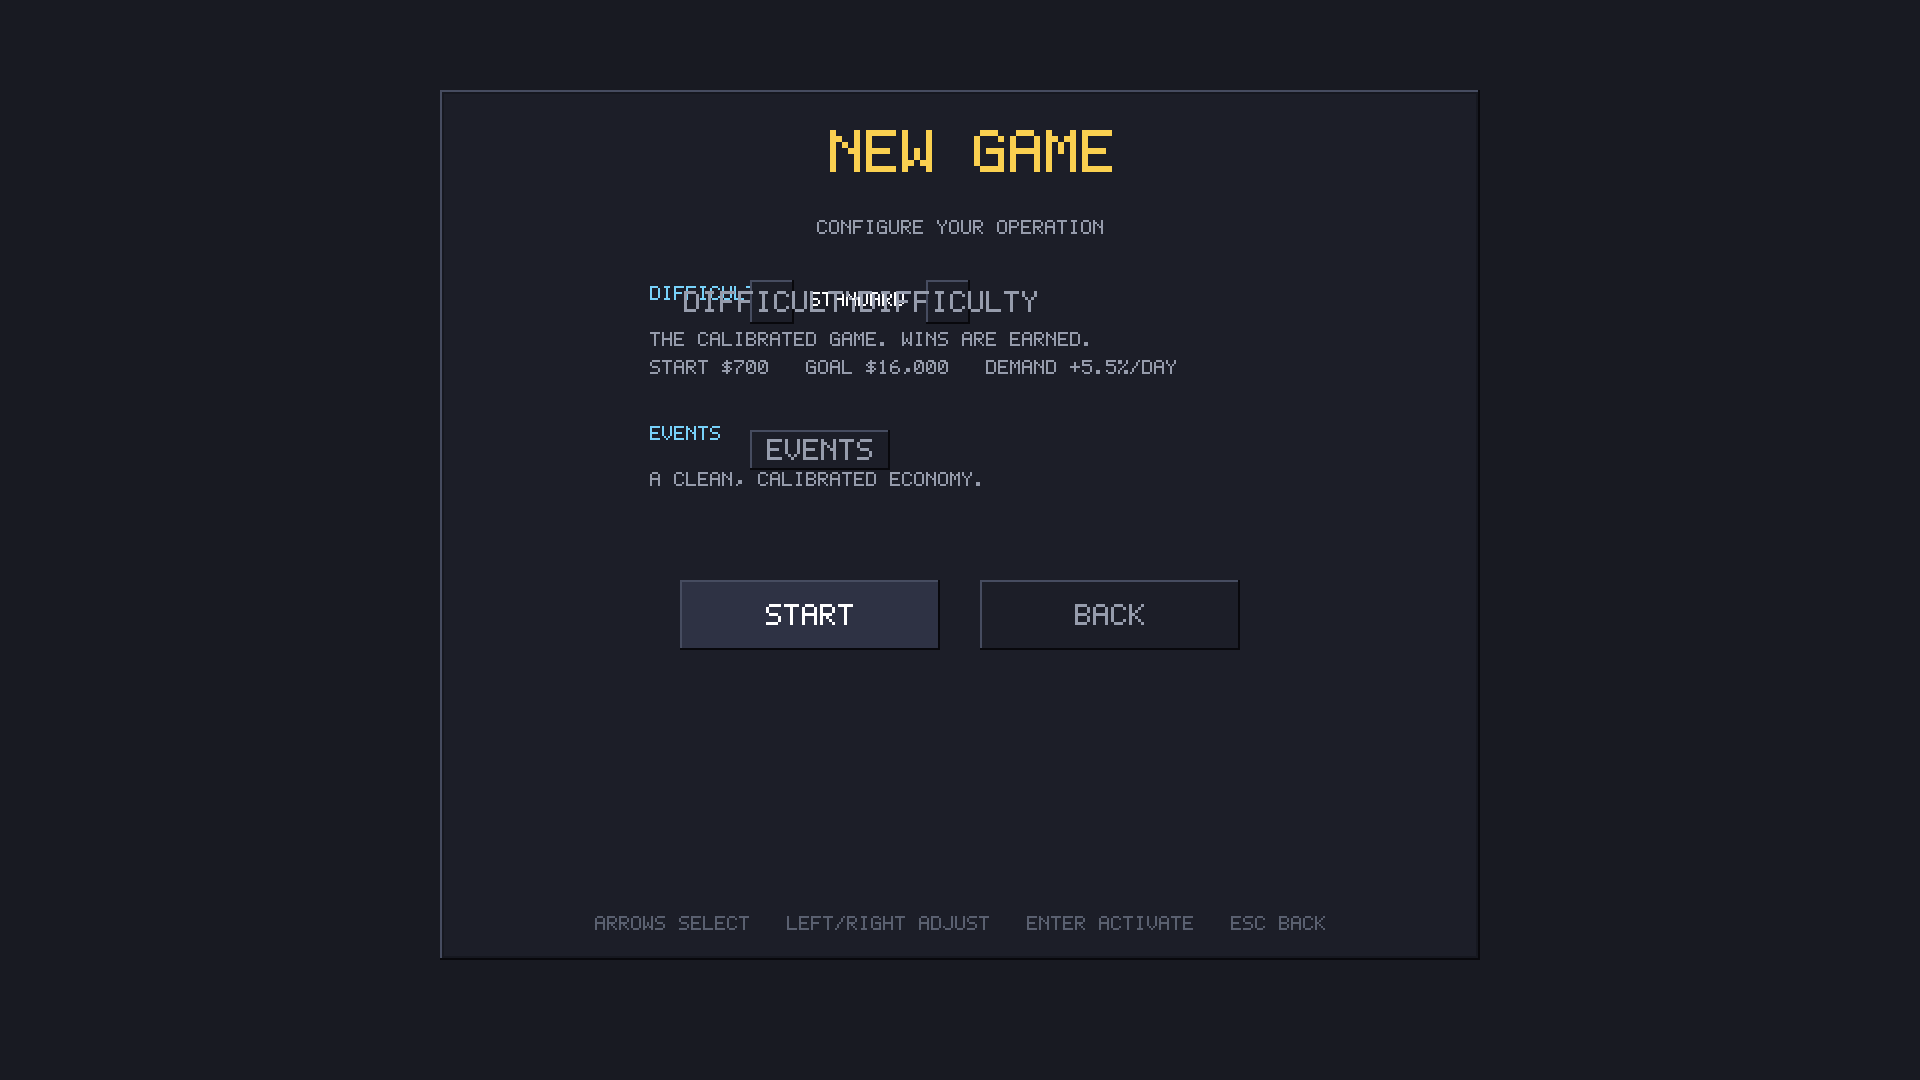
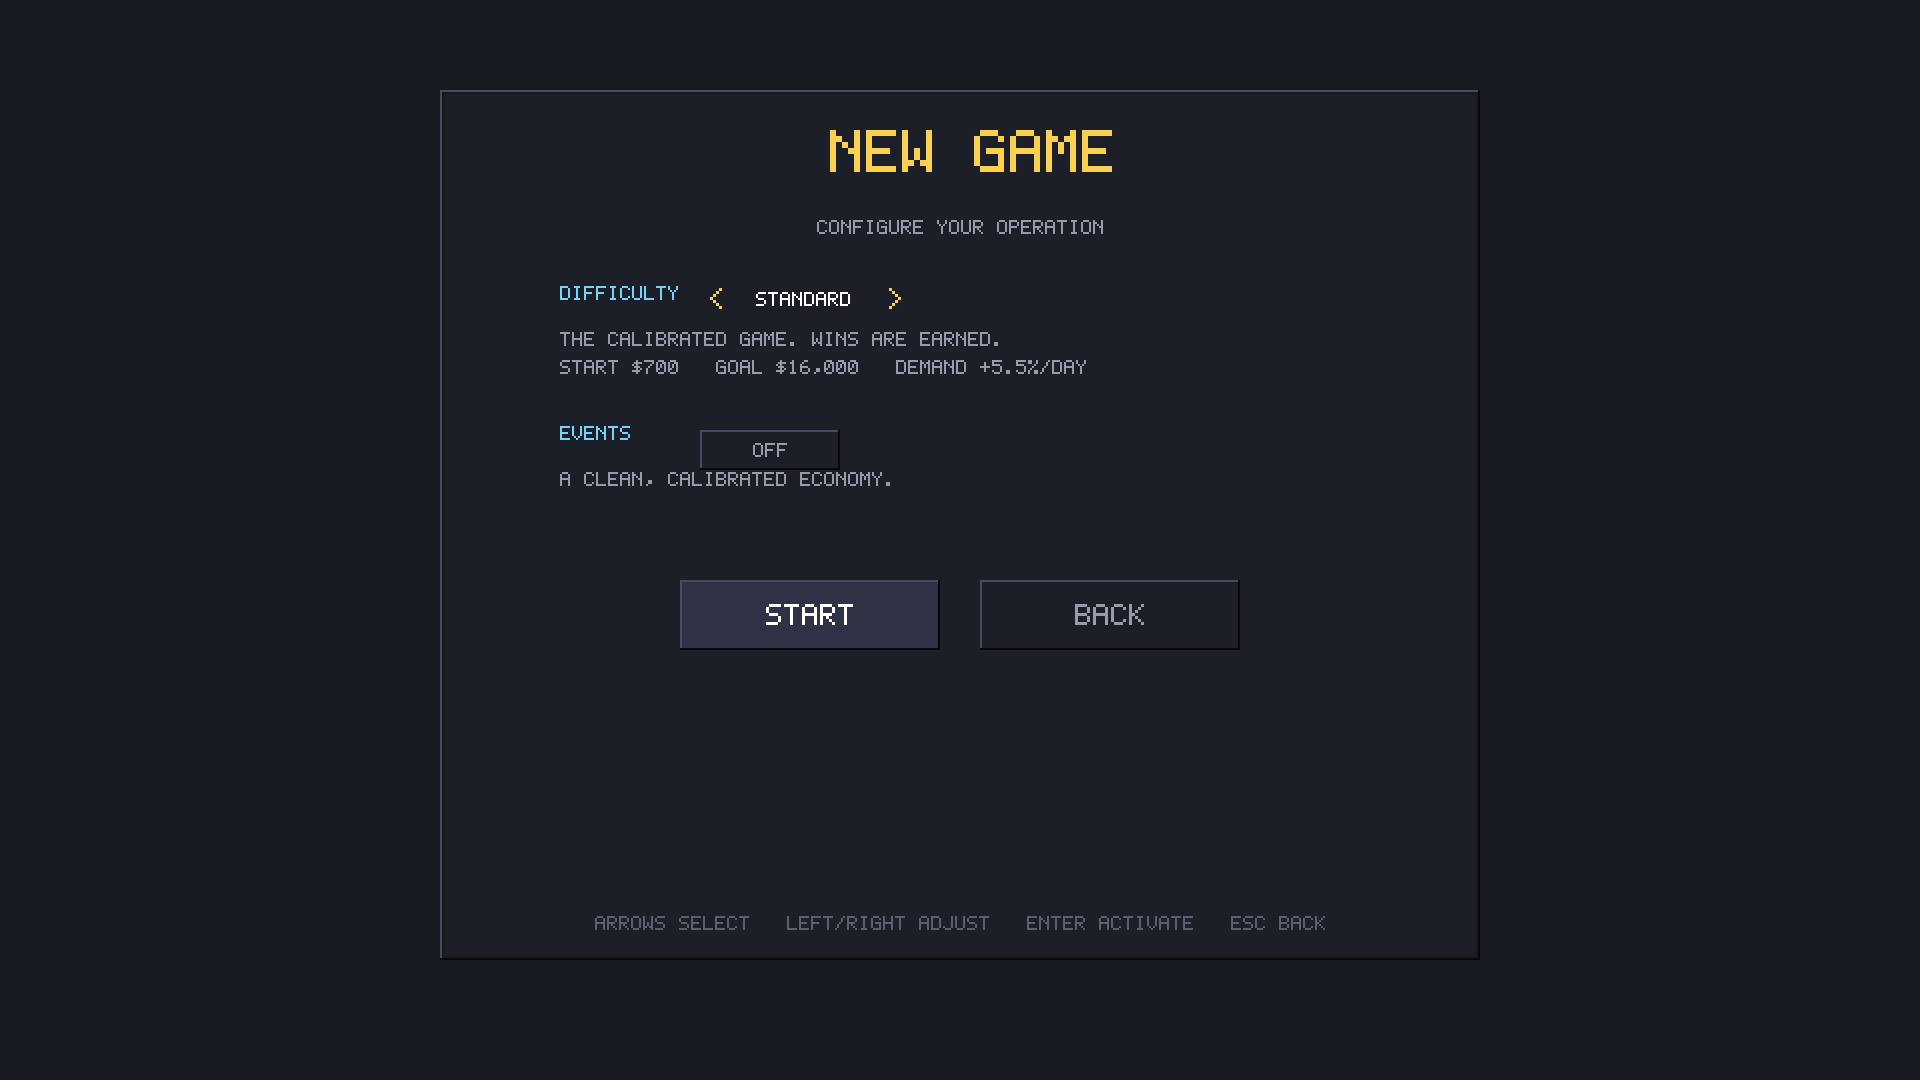
Fix setup screen: duplicate labels, spacing, and control layout
- The _setupRows loop was drawing labels for ALL rows including the
  <, >, and ON/OFF controls — which already had their text drawn above
  the loop. Fixed: only START and BACK (action >= 13) get labels from
  the loop; control buttons are drawn separately.
- Moved difficulty/events controls to x=700 (was 750) so they sit
  closer to their labels at x=560, eliminating the 100px gap.
- All labels now left-aligned at x=560; controls start at x=700.
- Verified via screenshot tool: no duplicate labels, no overlapping text,
  START/BACK centered as a pair.

Validated: 16/16 selftests, 0 warnings.

Changed region(s): [[0.2812, 0.2444, 0.5625, 0.3667], [0.3125, 0.3972, 0.5, 0.4583]]

diff --git a/Game1.cs b/Game1.cs
@@ -19,9 +19,9 @@ public class Game1 : Game
     private const int SideW = TargetWidth - MapW;
 
     private static readonly Rectangle SetupFrame = new(440, 90, 1040, 870);
-    private static readonly Rectangle BtnDiffMinus = new(750, 280, 44, 44);
-    private static readonly Rectangle BtnDiffPlus = new(926, 280, 44, 44);
-    private static readonly Rectangle BtnEvents = new(750, 430, 140, 40);
+    private static readonly Rectangle BtnDiffMinus = new(700, 280, 40, 40);
+    private static readonly Rectangle BtnDiffPlus = new(876, 280, 40, 40);
+    private static readonly Rectangle BtnEvents = new(700, 430, 140, 40);
     private static readonly Rectangle BtnStart = new(680, 580, 260, 70);
     private static readonly Rectangle BtnBack = new(980, 580, 260, 70);
 
@@ -675,34 +675,34 @@ public class Game1 : Game
         SoftTextCentered(c, "CONFIGURE YOUR OPERATION", 220, TextDim, 2);
 
         var t = Sim.DifficultyTuning(_selDifficulty);
-        int cx = TargetWidth / 2;
 
         // Difficulty row
-        SoftText(c, "DIFFICULTY", cx - 310, 286, TextCyan, 2);
-        SoftText(c, "<", BtnDiffMinus.X + 12, BtnDiffMinus.Y + 8, TextGold, 3);
+        SoftText(c, "DIFFICULTY", 560, 286, TextCyan, 2);
+        SoftText(c, "<", BtnDiffMinus.X + 10, BtnDiffMinus.Y + 8, TextGold, 3);
         SoftText(c, DifficultyName(_selDifficulty), BtnDiffMinus.X + BtnDiffMinus.Width + 16, 292, Color.White, 2);
-        SoftText(c, ">", BtnDiffPlus.X + 12, BtnDiffPlus.Y + 8, TextGold, 3);
-        SoftText(c, DifficultyBlurb(_selDifficulty), cx - 310, 332, TextDim, 2);
-        SoftText(c, $"START {t.startMoney:C0}   GOAL {t.winGoal:C0}   DEMAND +{(Sim.DAILY_DEMAND_GROWTH + t.growthDelta) * 100f:F1}%/DAY", cx - 310, 360, TextDim, 2);
+        SoftText(c, ">", BtnDiffPlus.X + 10, BtnDiffPlus.Y + 8, TextGold, 3);
+        SoftText(c, DifficultyBlurb(_selDifficulty), 560, 332, TextDim, 2);
+        SoftText(c, $"START {t.startMoney:C0}   GOAL {t.winGoal:C0}   DEMAND +{(Sim.DAILY_DEMAND_GROWTH + t.growthDelta) * 100f:F1}%/DAY", 560, 360, TextDim, 2);
 
         // Events row
-        SoftText(c, "EVENTS", cx - 310, 426, TextCyan, 2);
+        SoftText(c, "EVENTS", 560, 426, TextCyan, 2);
         var toggleText = _selEvents ? "ON" : "OFF";
         var toggleX = BtnEvents.X + (BtnEvents.Width - _font.Width(toggleText, 2)) / 2;
         var toggleY = BtnEvents.Y + (BtnEvents.Height - _font.Height(2)) / 2;
         SoftBevel(c, BtnEvents, _selEvents ? new Color(40, 60, 44) : ChunkFill);
         SoftText(c, toggleText, toggleX, toggleY, _selEvents ? TextGreen : TextDim, 2);
-        SoftText(c, _selEvents ? "THE NEWS CYCLE WILL SHAPE YOUR RUN." : "A CLEAN, CALIBRATED ECONOMY.", cx - 310, 472, TextDim, 2);
+        SoftText(c, _selEvents ? "THE NEWS CYCLE WILL SHAPE YOUR RUN." : "A CLEAN, CALIBRATED ECONOMY.", 560, 472, TextDim, 2);
 
-        // Rows
+        // Action buttons (only START/BACK get labels; <, >, ON/OFF are drawn above)
         foreach (var s in _setupRows)
         {
+            if (s.action < 13) continue;
             bool sel = _setupSel >= 0 && _setupRows[_setupSel].action == s.action;
             int tw = _font.Width(s.label, 3);
             int tx = s.rect.X + (s.rect.Width - tw) / 2;
             int ty = s.rect.Y + (s.rect.Height - _font.Height(3)) / 2;
             SoftBevel(c, s.rect, sel ? new Color(46, 50, 68) : ChunkFill);
-            SoftText(c, s.label, tx, s.rect.Y + (s.rect.Height - _font.Height(3)) / 2, sel ? Color.White : TextDim, 3);
+            SoftText(c, s.label, tx, ty, sel ? Color.White : TextDim, 3);
         }
 
         SoftTextCentered(c, "ARROWS SELECT   LEFT/RIGHT ADJUST   ENTER ACTIVATE   ESC BACK", frame.Bottom - 44, new Color(90, 96, 112), 2);
@@ -924,34 +924,34 @@ public class Game1 : Game
         DrawCentered("CONFIGURE YOUR OPERATION", 220, TextDim);
 
         var t = Sim.DifficultyTuning(_selDifficulty);
-        int cx = TargetWidth / 2;
 
         // Difficulty row
-        _font.Draw(_spriteBatch, "DIFFICULTY", cx - 310, 286, TextCyan, 2);
-        _font.Draw(_spriteBatch, "<", BtnDiffMinus.X + 12, BtnDiffMinus.Y + 8, TextGold, 3);
+        _font.Draw(_spriteBatch, "DIFFICULTY", 560, 286, TextCyan, 2);
+        _font.Draw(_spriteBatch, "<", BtnDiffMinus.X + 10, BtnDiffMinus.Y + 8, TextGold, 3);
         _font.Draw(_spriteBatch, DifficultyName(_selDifficulty), BtnDiffMinus.X + BtnDiffMinus.Width + 16, 292, Color.White, 2);
-        _font.Draw(_spriteBatch, ">", BtnDiffPlus.X + 12, BtnDiffPlus.Y + 8, TextGold, 3);
-        _font.Draw(_spriteBatch, DifficultyBlurb(_selDifficulty), cx - 310, 332, TextDim, 2);
-        _font.Draw(_spriteBatch, $"START {t.startMoney:C0}   GOAL {t.winGoal:C0}   DEMAND +{(Sim.DAILY_DEMAND_GROWTH + t.growthDelta) * 100f:F1}%/DAY", cx - 310, 360, TextDim, 2);
+        _font.Draw(_spriteBatch, ">", BtnDiffPlus.X + 10, BtnDiffPlus.Y + 8, TextGold, 3);
+        _font.Draw(_spriteBatch, DifficultyBlurb(_selDifficulty), 560, 332, TextDim, 2);
+        _font.Draw(_spriteBatch, $"START {t.startMoney:C0}   GOAL {t.winGoal:C0}   DEMAND +{(Sim.DAILY_DEMAND_GROWTH + t.growthDelta) * 100f:F1}%/DAY", 560, 360, TextDim, 2);
 
         // Events row
-        _font.Draw(_spriteBatch, "EVENTS", cx - 310, 426, TextCyan, 2);
+        _font.Draw(_spriteBatch, "EVENTS", 560, 426, TextCyan, 2);
         var toggleText = _selEvents ? "ON" : "OFF";
         var toggleX = BtnEvents.X + (BtnEvents.Width - _font.Width(toggleText, 2)) / 2;
         var toggleY = BtnEvents.Y + (BtnEvents.Height - _font.Height(2)) / 2;
         BevelPanel(BtnEvents, _selEvents ? new Color(40, 60, 44) : ChunkFill, PanelLine, new Color(8, 8, 12));
         _font.Draw(_spriteBatch, toggleText, toggleX, toggleY, _selEvents ? TextGreen : TextDim, 2);
-        _font.Draw(_spriteBatch, _selEvents ? "THE NEWS CYCLE WILL SHAPE YOUR RUN." : "A CLEAN, CALIBRATED ECONOMY.", cx - 310, 472, TextDim, 2);
+        _font.Draw(_spriteBatch, _selEvents ? "THE NEWS CYCLE WILL SHAPE YOUR RUN." : "A CLEAN, CALIBRATED ECONOMY.", 560, 472, TextDim, 2);
 
-        // Rows
+        // Action buttons (only START/BACK get labels; <, >, ON/OFF are drawn above)
         foreach (var s in _setupRows)
         {
+            if (s.action < 13) continue;
             bool sel = _setupSel >= 0 && _setupRows[_setupSel].action == s.action;
             int tw = _font.Width(s.label, 3);
             int tx = s.rect.X + (s.rect.Width - tw) / 2;
             int ty = s.rect.Y + (s.rect.Height - _font.Height(3)) / 2;
             BevelPanel(s.rect, sel ? new Color(46, 50, 68) : ChunkFill, PanelLine, new Color(8, 8, 12));
-            _font.Draw(_spriteBatch, s.label, tx, s.rect.Y + (s.rect.Height - _font.Height(3)) / 2, sel ? Color.White : TextDim, 3);
+            _font.Draw(_spriteBatch, s.label, tx, ty, sel ? Color.White : TextDim, 3);
         }
 
         DrawCentered("ARROWS SELECT   LEFT/RIGHT ADJUST   ENTER ACTIVATE   ESC BACK", frame.Bottom - 44, new Color(90, 96, 112));
